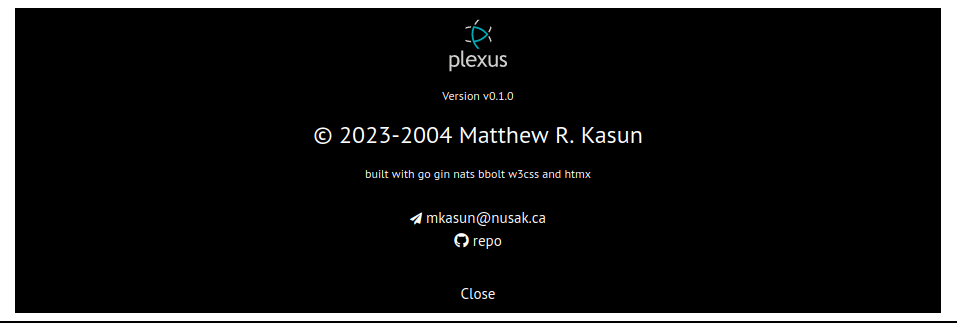
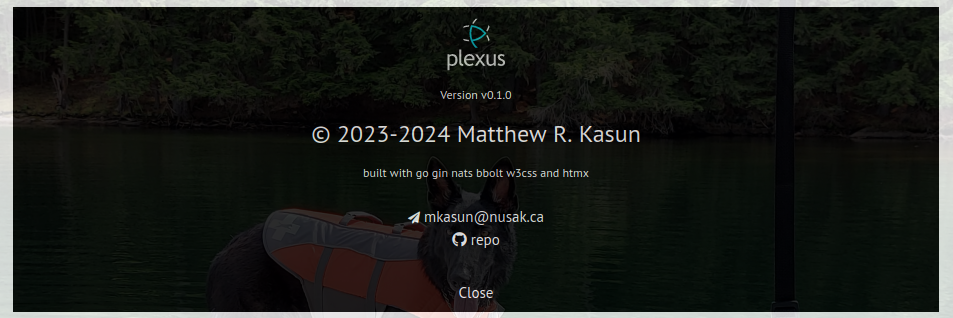
dates in about dialog

diff --git a/app/plexus-server/html/about.html b/app/plexus-server/html/about.html
@@ -5,7 +5,7 @@
         <div class="w3-container w3-center w3-theme-dark">
             <img src="images/plexus.svg" alt="logo" height="75"><br>
             <small>Version {{ .Version }}</small>
-            <h3>&copy; 2023-2004 Matthew R. Kasun</h3>
+            <h3>&copy; 2023-2024 Matthew R. Kasun</h3>
             <small>built with
                 <a href="https://go.dev" target="_blank">go</a>
                 <a href="https://github.com/gin-gonic/" target="_blank">gin</a>
